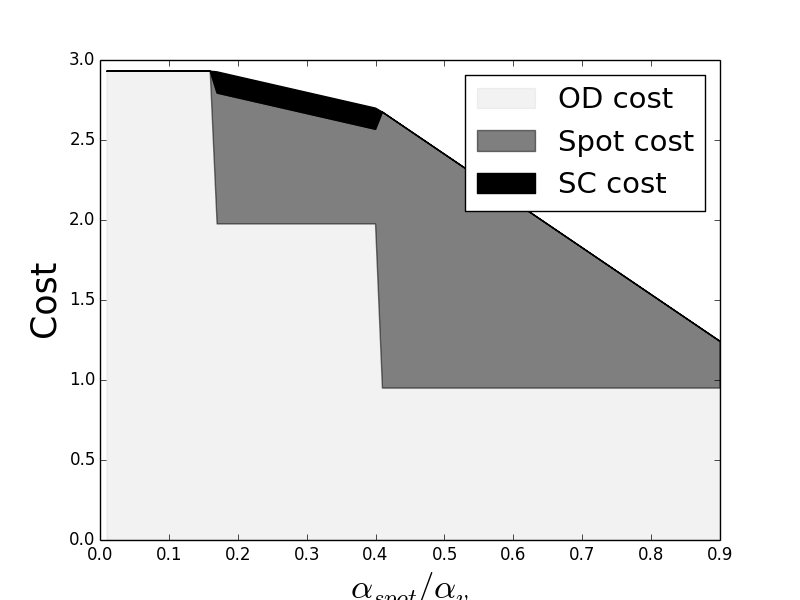
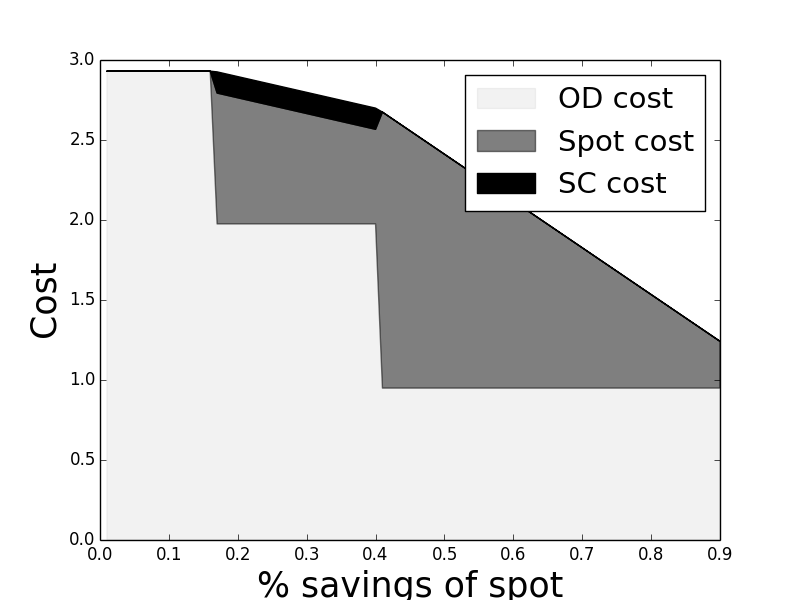
updates to price ratio graph

Changed region(s): [[0.3125, 0.96, 0.7188, 1.0]]

diff --git a/scripts/generate_plots_mg1_spot.py b/scripts/generate_plots_mg1_spot.py
@@ -777,6 +777,7 @@ def OO_price_ratio_spot_od():
 	spot_cost = []
 	serv_cost = []
 	vm_cost = []
+	# ratio = []
 
 	# prev_transition_cost = n_spot * alpha_spot
 	count = 0
@@ -784,6 +785,9 @@ def OO_price_ratio_spot_od():
 		n_spot = 0
 		# print "failure rate = %f" % fail_rate
 		alpha_spot = (1-omega_savings_ratio) * alpha_v
+		# ratio.append(1.0-omega_savings_ratio)
+		
+		# print ratio
 		# results_price = []
 		quants = []
 		count += 1
@@ -803,13 +807,17 @@ def OO_price_ratio_spot_od():
 		# results_price.append(cost)
 		
 		results.append(cost)
+
+	# ratio.reverse()
 	filename = '../graphs/mg1_spot/OO_price_ratio_spot_OD' + str(fail_rate) + '_servers'  + '.png'
 	legends = ['OD cost', 'Spot cost', 'SC cost']
 	ylabel = 'Cost'
 	location = "upper right"
-	xlabel = r'$\alpha_{spot}/\alpha_v$'
+	# xlabel = r'$\alpha_v/\alpha_p$'
+	xlabel = '% savings of spot'
 	title = ""
 	plot_graph(filename, legends, omega_savings_percent, vm_cost, spot_cost, serv_cost, xlabel, ylabel, title, location)
+	# plot_graph(filename, legends, ratio, vm_cost.reverse(), spot_cost.reverse(), serv_cost.reverse(), xlabel, ylabel, title, location)
 
 # OO, vary spot/VM price ratio
 def OO_failure_rate_impact(val_lambda):
